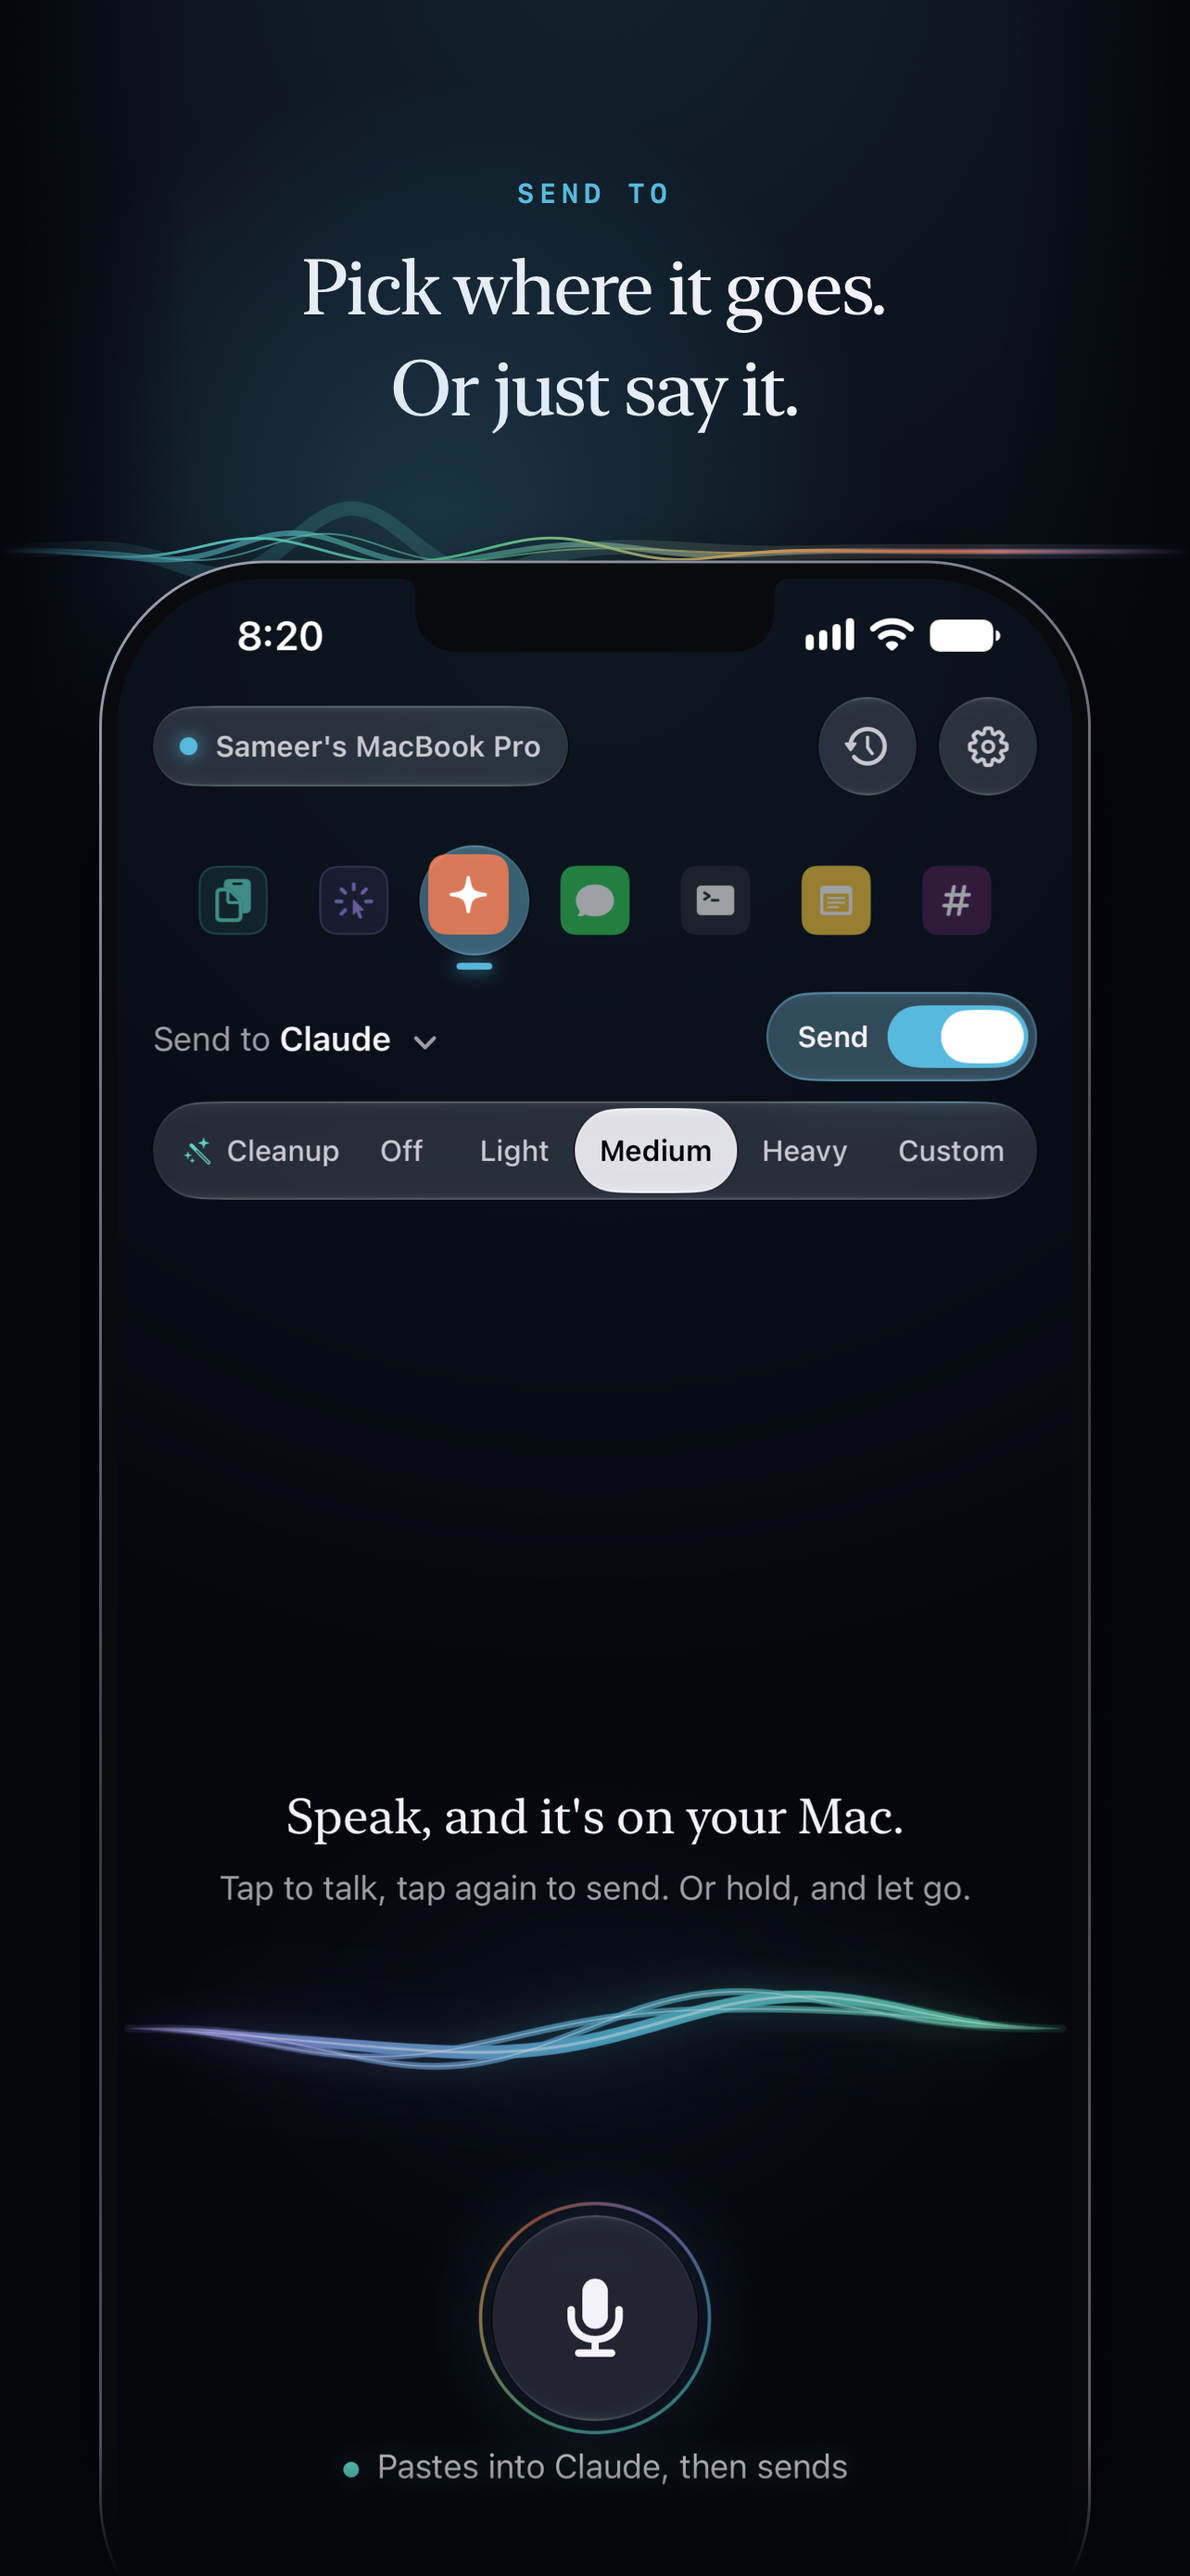
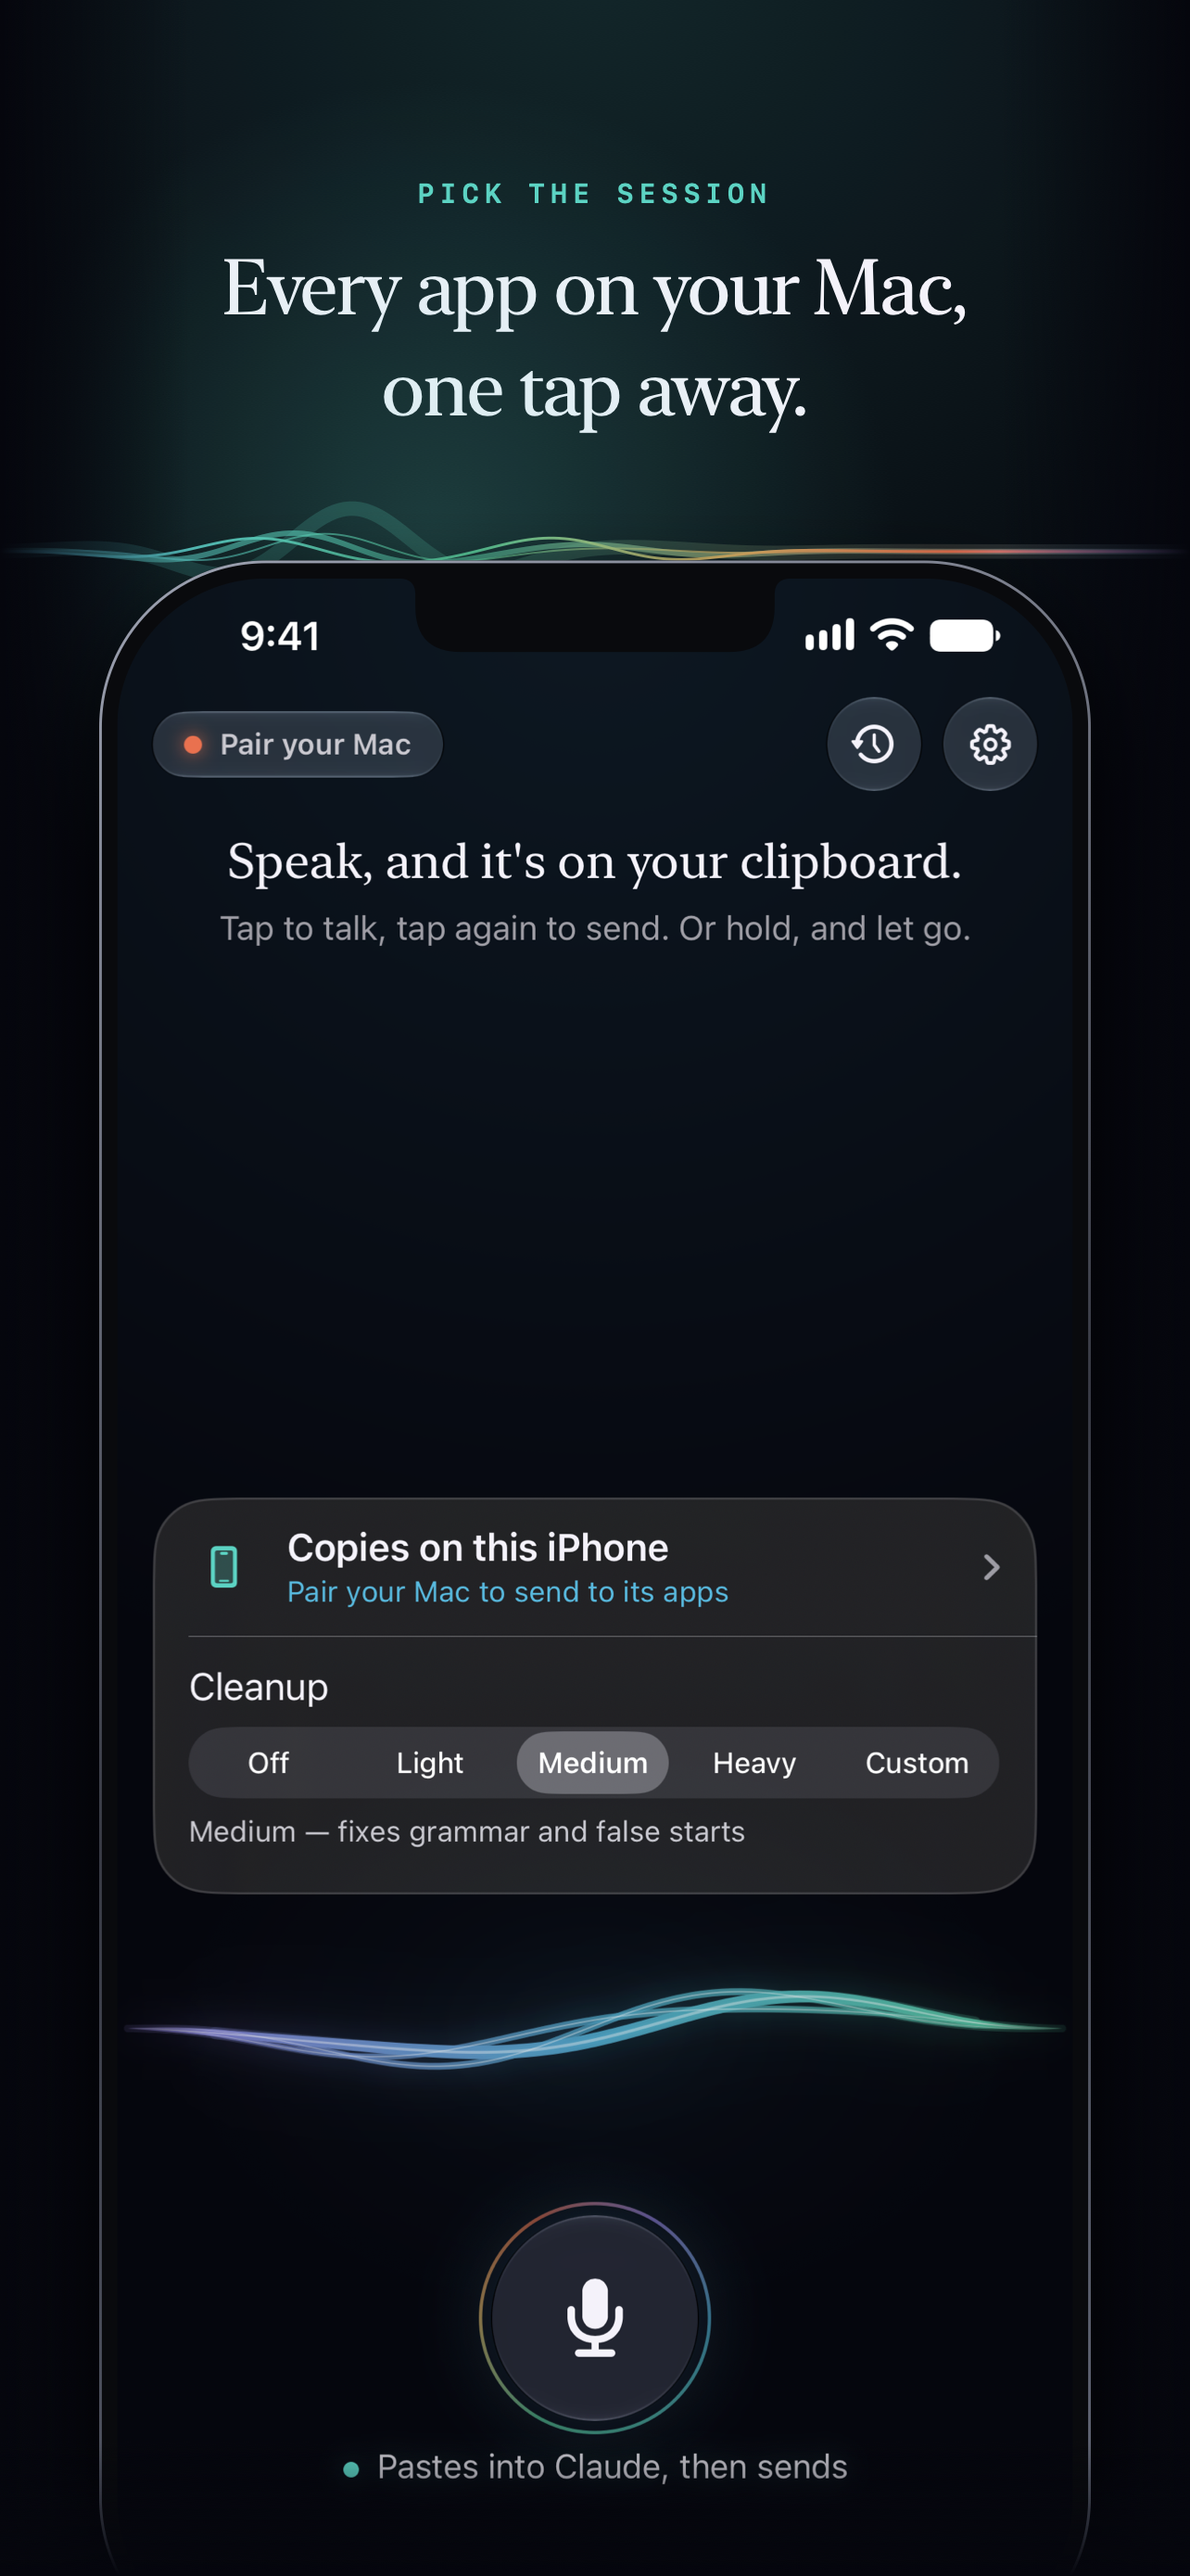
App Store screenshots for the new pitch: Watch it work, Answer by voice, Pick the session, Open any app, Cleanup, Private by design (6.9 and 6.5)

Changed region(s): [[0.1246, 0.5572, 0.8723, 0.743], [0.1246, 0.2167, 0.8723, 0.4644], [0.1869, 0.0619, 0.81, 0.1857]]

diff --git a/iOS/scripts/render-store-shots.swift b/iOS/scripts/render-store-shots.swift
@@ -52,13 +52,13 @@ struct Shot {
 }
 
 let shots: [Shot] = [
-    Shot(file: "01-recording", kicker: "Dictate", caption: "Speak into your iPhone.\nIt lands on your Mac.", glow: ember, peak: 0.42),
-    Shot(file: "02-delivered", kicker: "Voice targets", caption: "Say where it goes.\nIt goes straight there.", glow: mint, peak: 0.58),
-    Shot(file: "03-send-to", kicker: "Send to", caption: "Pick where it goes.\nOr just say it.", glow: cyan, peak: 0.36),
-    Shot(file: "04-cleanup", kicker: "Cleanup", caption: "Four levels, or your own.\nIt edits, never answers.", glow: teal, peak: 0.62,
+    Shot(file: "01-watch", kicker: "Watch it work", caption: "Your Mac does the coding.\nYour iPhone runs the session.", glow: cyan, peak: 0.42),
+    Shot(file: "02-reply", kicker: "Answer by voice", caption: "Say the next prompt.\nIt's pasted in and sent.", glow: ember, peak: 0.58),
+    Shot(file: "03-send-to", kicker: "Pick the session", caption: "Every app on your Mac,\none tap away.", glow: teal, peak: 0.36),
+    Shot(file: "04-open-app", kicker: "Open any app", caption: "Something closed?\nOpen it from your iPhone.", glow: mint, peak: 0.62),
+    Shot(file: "05-cleanup", kicker: "Cleanup", caption: "Four levels, or your own.\nIt edits, never answers.", glow: violet, peak: 0.45,
          beforeAfter: ("so um the thing I want is, uh, make the retry logic back off, no wait, back off exponentially and cap it at thirty seconds",
                        "Make the retry logic back off exponentially and cap it at 30 seconds.", "Medium")),
-    Shot(file: "05-history", kicker: "History", caption: "Raw and cleaned,\nkept on your iPhone.", glow: violet, peak: 0.45),
     Shot(file: "06-pairing", kicker: "Private by design", caption: "Pair once. No account,\nno cloud, no audio kept.", glow: gold, peak: 0.55),
 ]
 

diff --git a/Packages/MacrophoneKit/Sources/mpctl/main.swift b/Packages/MacrophoneKit/Sources/mpctl/main.swift
@@ -157,9 +157,13 @@ final class ServeDelegate: LinkServerDelegate {
         // Real bundle ids, with this Mac's icons where the app is installed (screenshots look real).
         let apps: [(String, String)] = [("Calendar", "com.apple.iCal"), ("ChatGPT", "com.openai.chat"), ("Claude", "com.anthropic.claudefordesktop"),
                                         ("Cursor", "com.todesktop.230313mzl4w4u92"), ("Ghostty", "com.mitchellh.ghostty"), ("Mail", "com.apple.mail"),
-                                        ("Messages", "com.apple.MobileSMS"), ("Notes", "com.apple.Notes"), ("Slack", "com.tinyspeck.slackmacgap"),
-                                        ("Terminal", "com.apple.Terminal"), ("TextEdit", "com.apple.TextEdit"), ("Xcode", "com.apple.dt.Xcode")]
-        return apps.map { MacApp(bundleID: $0.1, name: $0.0, icon: demoIcon($0.1, 64), running: ["Claude", "Messages", "Terminal", "Notes"].contains($0.0)) }
+                                        ("Messages", "com.apple.MobileSMS"), ("Notes", "com.apple.Notes"), ("Reminders", "com.apple.reminders"),
+                                        ("Safari", "com.apple.Safari"), ("Slack", "com.tinyspeck.slackmacgap"), ("Terminal", "com.apple.Terminal"),
+                                        ("TextEdit", "com.apple.TextEdit"), ("Xcode", "com.apple.dt.Xcode")]
+        // Only the ones installed here, like the real Mac app.
+        return apps.compactMap { app in
+            demoIcon(app.1, 64).map { MacApp(bundleID: app.1, name: app.0, icon: $0, running: ["Claude", "Messages", "Terminal", "Notes"].contains(app.0)) }
+        }
     }
 
     func linkServer(_ server: LinkServer, openApp bundleID: String, from peerID: UUID) async -> (Bool, String) {

diff --git a/docs/APP_STORE.md b/docs/APP_STORE.md
@@ -261,19 +261,16 @@ phone below with the Filament crossing the frame. No caption names a third-party
 
 | # | File | Screen | Kicker | Caption |
 | --- | --- | --- | --- | --- |
-| 1 | `01-recording.png` | Mid-dictation: the live transcript, the Filament alive, the timer, the dock of the Mac's open apps with Claude lit, "You said Claude", Send after pasting on, cleanup at Medium, "Listening — this one goes to Claude" | DICTATE | Speak into your iPhone. It lands on your Mac. |
-| 2 | `02-delivered.png` | Delivered: the mint ✓ on the Filament, "Sent to Claude — you said "Claude" first", and the last dictation card (Cleaned / Raw, Copy, Resend) | VOICE TARGETS | Say where it goes. It goes straight there. |
-| 3 | `03-send-to.png` | The main screen at rest: the dock with Claude picked, "Send to Claude", Send after pasting, and the status line "Pastes into Claude, then sends" | SEND TO | Pick where it goes. Or just say it. |
-| 4 | `04-cleanup.png` | Settings: Send to · Clipboard, the cleanup steps (Off · Light · Medium · Heavy · Custom) with a HEARD / SENT · MEDIUM CLEANUP card | CLEANUP | Four levels, or your own. It edits, never answers. |
-| 5 | `05-history.png` | History: three dictations with Cleaned / Raw, where each went (Claude · you said "Claude" first, Terminal — claude, Where I'm typing), Delivered, the cleanup level | HISTORY | Raw and cleaned, kept on your iPhone. |
-| 6 | `06-pairing.png` | Onboarding step 5: "Scan the code on your Mac." with the QR viewfinder and "Use a Code Instead" | PRIVATE BY DESIGN | Pair once. No account, no cloud, no audio kept. |
+| 1 | `01-watch.png` | Watching: a Terminal window running Claude Code, live, with "Do you want to make this edit?" and Esc · ↑ · ↓ · Return under it | WATCH IT WORK | Your Mac does the coding. Your iPhone runs the session. |
+| 2 | `02-reply.png` | Replying while watching: the window as a strip at the top, the reply appearing in serif, the Filament alive, the mic recording | ANSWER BY VOICE | Say the next prompt. It's pasted in and sent. |
+| 3 | `03-send-to.png` | The main screen: Send to Claude with Watch and ⋯, the row of the Mac's apps with their icons, Send after pasting, cleanup, "Pastes into Claude, then sends" | PICK THE SESSION | Every app on your Mac, one tap away. |
+| 4 | `04-open-app.png` | Open an app: the Mac's installed apps with icons, the open ones marked | OPEN ANY APP | Something closed? Open it from your iPhone. |
+| 5 | `05-cleanup.png` | Settings: the cleanup steps with a HEARD / SENT · MEDIUM card | CLEANUP | Four levels, or your own. It edits, never answers. |
+| 6 | `06-pairing.png` | Onboarding: "Scan the code on your Mac." with the QR viewfinder | PRIVATE BY DESIGN | Pair once. No account, no cloud, no audio kept. |
 
-The captured screens show only features the simplified app has. **Shots 1–3 show the main
-screen as it was on Oct 13 2026.** The main screen is being redesigned (the last-dictation card
-is going away, the mic moves to the bottom, and the transcript fills the space above it while
-recording). Re-capture and re-render **01, 02 and 03** in both sizes after that lands, and before
-upload. Shots 4–6 (Settings, History, pairing) aren't affected. Use the "Macrophone Shots 6.9"
-(723B841D-…) and "Macrophone Shots 6.5" (13583BDA-…) simulators.
+Re-rendered Oct 14 2026 for the new pitch. Shots 1–4 come from a live stand-in Mac
+(`mpctl serve`, see the capture script's header) so the window and the app icons are real. Use the
+"Macrophone Shots 6.9" (723B841D-…) and "Macrophone Shots 6.5" (13583BDA-…) simulators.
 
 ## Third-party names (guidelines 2.3.7 / 5.2.1)
 
